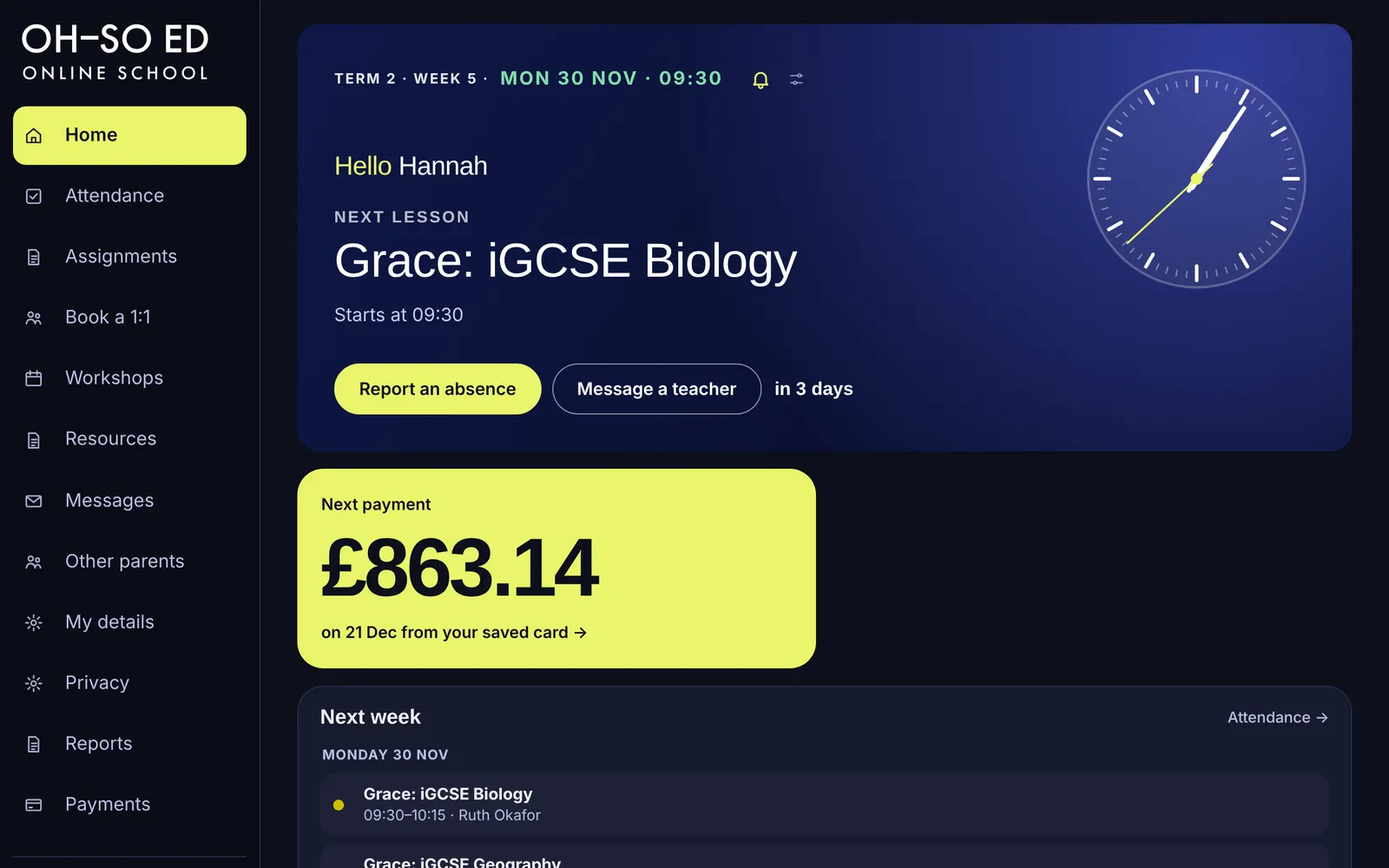
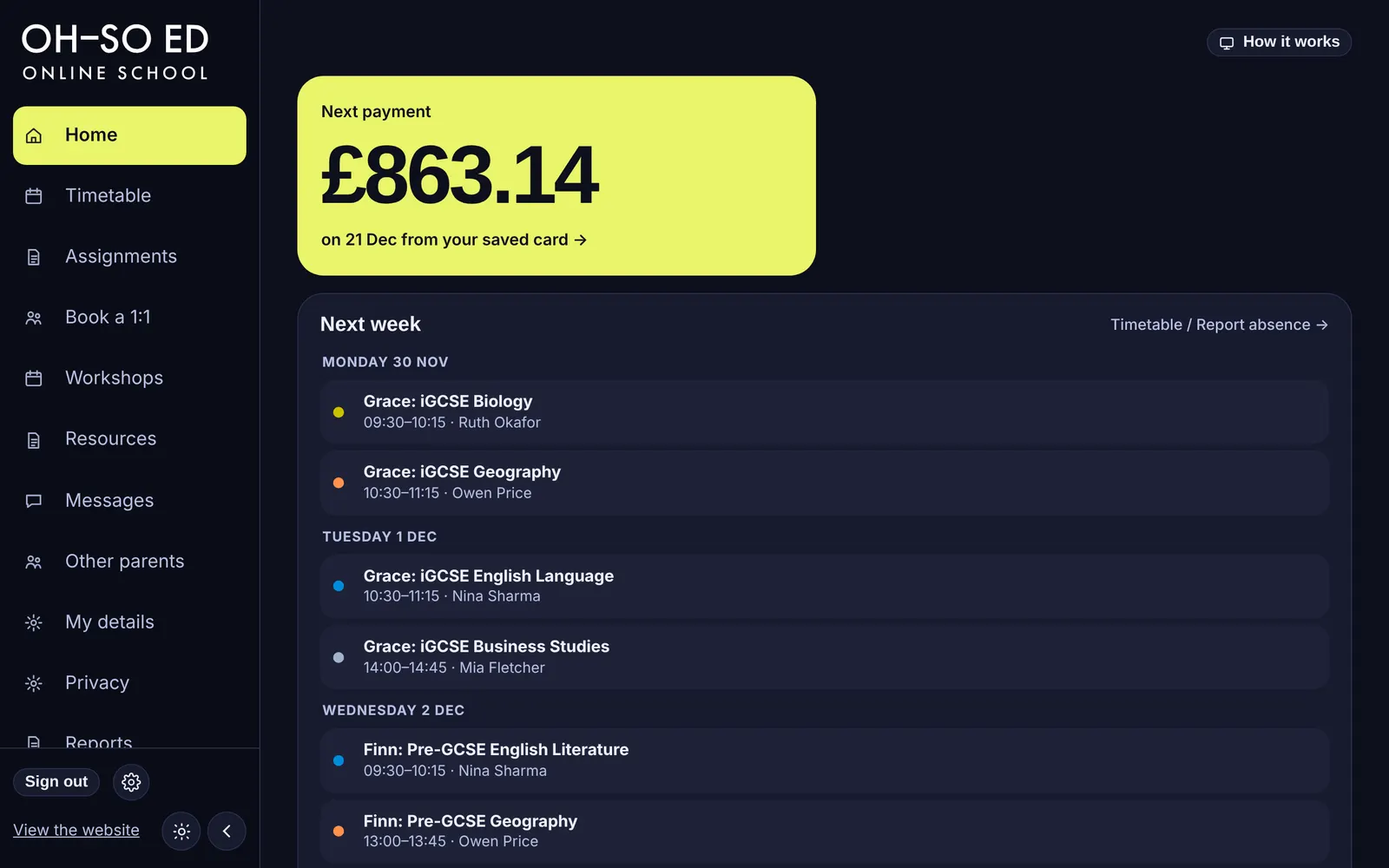
Update 526: parent Timetable (month calendar with absences); no hero on the parent home
- Parent menu: Attendance is now Timetable (/parent/attendance): one month calendar per child (option B). Taught lessons show present / late / absent / approved absence; lessons to come have a tick box; ticking brings up the bar (reason, note, Report absence) kept in view at the bottom; a reported absence shows on its lesson with Cancel; cancelled lessons are struck through; child and month switchers. On a phone it's a list of the days with lessons. parentMonth() in family.ts
- Parent home: the hero (next lesson and clock) is gone; How it works sits in the module bar; built-in layout puts the payment beside This week. Links read "Timetable / Report absence"
- /newdashboard parent page and the Home and Timetable slideshows updated

Claude-Session: https://claude.ai/code/session_019jwWYdrTturMMjiMEQw7Wv

diff --git a/src/app/(family)/parent/attendance/page.tsx b/src/app/(family)/parent/attendance/page.tsx
@@ -1,44 +1,81 @@
+import Link from "next/link";
 import { GuideSlides } from "../../../admin/GuideSlides";
 import { FAMILY_GUIDES } from "../../../admin/guides";
 import { requireParent } from "@/lib/family-auth";
-import { kids, parentAttendance, REASONS } from "@/lib/family";
+import { kids, parentMonth, REASONS, type MonthLesson } from "@/lib/family";
 import { reportAbsenceAction, cancelAbsenceAction } from "../../actions";
-import { Head, Flash, dm, dlong, MARK } from "../../fmt";
+import { Head, Flash } from "../../fmt";
 
-export default async function ParentAttendance({ searchParams }: { searchParams: Promise<{ ok?: string; err?: string; kid?: string }> }) {
+export const dynamic = "force-dynamic";
+
+// 27 Nov (Alfonso chose option B): the parent's Timetable: one module, a month calendar for one child. Lessons already
+// taught show their mark (present, late, absent, approved absence); lessons to come have a tick box, and ticking them
+// brings up the bar (reason, note, Report absence) along the bottom. A reported absence shows on its lesson, with Cancel.
+// On a phone the calendar becomes a list of the days that have lessons.
+const MONTHS = ["January", "February", "March", "April", "May", "June", "July", "August", "September", "October", "November", "December"];
+const WD = ["Mon", "Tue", "Wed", "Thu", "Fri", "Sat", "Sun"];
+const iso = (d: Date) => d.toISOString().slice(0, 10);
+const londonToday = () => new Date().toLocaleDateString("en-CA", { timeZone: "Europe/London" });
+const short = (c: string) => c.replace(/^(KS3|Pre-GCSE|iGCSE|GCSE|A[- ]?Level)\s+/i, "");
+const STATE: Record<string, [string, string, string]> = { present: ["tt-ok", "✓", "Present"], late: ["tt-late", "L", "Late"], absent: ["tt-abs", "✗", "Absent"], approved_absence: ["tt-appr", "E", "Approved absence"] };
+
+export default async function ParentTimetable({ searchParams }: { searchParams: Promise<{ ok?: string; err?: string; kid?: string; m?: string }> }) {
   const [sp, f] = await Promise.all([searchParams, requireParent()]);
-  const [ks, a] = await Promise.all([kids(f.id), parentAttendance(f.id)]);
+  const ks = await kids(f.id);
   const kid = ks.find((k) => k.id === sp.kid) ?? ks[0];
-  const up = a.upcoming.filter((l) => l.student_id === kid?.id), days = [...new Set(up.map((l) => l.date))];
+  const today = londonToday();
+  const ym = /^\d{4}-\d{2}$/.test(sp.m ?? "") ? sp.m! : today.slice(0, 7);
+  const [y, mo] = ym.split("-").map(Number);
+  const first = new Date(Date.UTC(y, mo - 1, 1)), last = new Date(Date.UTC(y, mo, 0));
+  const start = new Date(first); start.setUTCDate(1 - ((first.getUTCDay() + 6) % 7));
+  const end = new Date(last); end.setUTCDate(last.getUTCDate() + (6 - ((last.getUTCDay() + 6) % 7)));
+  const lessons = kid ? await parentMonth(f.id, kid.id, iso(start), iso(end)) : [];
+  const byDay = new Map<string, MonthLesson[]>(); for (const l of lessons) byDay.set(l.date, [...(byDay.get(l.date) ?? []), l]);
+  const days: Date[] = []; for (const d = new Date(start); d <= end; d.setUTCDate(d.getUTCDate() + 1)) days.push(new Date(d));
+  const monthHref = (d: number) => { const t = new Date(Date.UTC(y, mo - 1 + d, 1)); return `/parent/attendance?${kid ? `kid=${kid.id}&` : ""}m=${iso(t).slice(0, 7)}`; };
+  const monthName = (d: number) => MONTHS[new Date(Date.UTC(y, mo - 1 + d, 1)).getUTCMonth()];
+  const taught = lessons.filter((l) => l.mark), count = (m: string) => taught.filter((l) => l.mark === m).length;
+  const cancels: string[] = [];
+  const chip = (l: MonthLesson) => {
+    const label = <><b>{l.time}</b><span className="tt-c">{short(l.class)}{l.taster ? " (taster)" : ""}</span></>;
+    if (l.status === "cancelled") return <div key={l.id} className="tt-l tt-cx" title="This lesson was cancelled">{label}<i>Cancelled</i></div>;
+    if (l.mark) { const [c, sym, word] = STATE[l.mark] ?? ["tt-appr", "?", l.mark]; return <div key={l.id} className={`tt-l ${c}`} title={`${l.class}: ${word}${l.early ? ", left early" : ""}`}>{label}<i aria-label={word}>{sym}{l.early ? "↘" : ""}</i></div>; }
+    if (l.past) return <div key={l.id} className="tt-l tt-none" title={`${l.class}: not marked yet`}>{label}<i>–</i></div>;
+    if (l.notice) { cancels.push(l.notice); return <div key={l.id} className="tt-l tt-rep">{label}<span>Absence reported · <button type="submit" form={`cx-${l.notice}`} className="tt-link">Cancel</button></span></div>; }
+    return <label key={l.id} className="tt-l tt-fut" title={`${l.time} ${l.class}: tick if ${kid?.first ?? "they"} will miss it`}><input type="checkbox" name="lesson" value={l.id} />{label}</label>;
+  };
   return <>
-    <Head title="Attendance" sub="Your children’s attendance, and absences you’ve told us about"><GuideSlides slides={[...FAMILY_GUIDES["p-attendance"].slides]} title={FAMILY_GUIDES["p-attendance"].title} /></Head>
+    <Head title="Timetable" sub={kid ? `${kid.first}’s lessons: how each one went, and the ones coming up. Tick a lesson to tell us ${kid.first} will miss it.` : "Your children’s lessons"}>
+      <GuideSlides slides={[...FAMILY_GUIDES["p-attendance"].slides]} title={FAMILY_GUIDES["p-attendance"].title} /></Head>
     <Flash sp={sp} />
-    <div className="dgrid">{ks.map((st) => { const m = a.marks.filter((x) => x.student_id === st.id), held = m.filter((x) => x.mark !== "approved_absence").length,
-      att = m.filter((x) => x.mark === "present" || x.mark === "late").length, appr = m.filter((x) => x.mark === "approved_absence").length;
-      return <section className="card" key={st.id} style={{ margin: 0 }}>
-        <div style={{ display: "flex", gap: 10, alignItems: "center", flexWrap: "wrap" }}><h2 style={{ margin: 0 }}>{st.first}</h2>{st.att != null && <span className={`pill ${st.att < 50 ? "warn" : "good"}`}>Attendance {st.att}%</span>}</div>
-        <p className="cs" style={{ marginTop: 6 }}>{m.length ? `${att} of ${held} lessons attended this term · ${appr} approved absence${appr === 1 ? "" : "s"} · ${held - att} unexplained` : "No lessons yet this term."}</p>
-        {m.slice(0, 8).map((x, i) => <div className="li" key={i}><span className={`mark ${MARK[x.mark]?.[1]}`}>{MARK[x.mark]?.[2]}{x.early ? "↘" : ""}</span>
-          <div className="t"><b>{x.class} · {dm(x.date)} {x.time}</b><span>{MARK[x.mark]?.[0]}{x.early ? " · left early" : ""}</span></div></div>)}
-      </section>; })}</div>
-
-    {kid && <section className="card" style={{ marginTop: 16 }}><h2>Report an absence</h2><p className="cs">Tell us in advance and the lesson is recorded as an approved absence, so it doesn’t count against attendance. Teachers are told before the lesson.</p>
-      {ks.length > 1 && <div style={{ display: "flex", gap: 6, marginBottom: 10 }}>{ks.map((k) => <a key={k.id} className={`abtn sm${k.id === kid.id ? " pri" : ""}`} href={`/parent/attendance?kid=${k.id}`}>{k.first}</a>)}</div>}
-      <form action={reportAbsenceAction} style={{ display: "grid", gap: 10 }}><input type="hidden" name="student" value={kid.id} />
-        <b style={{ fontSize: 15 }}>Which lessons will {kid.first} miss? (next 4 weeks)</b>
-        <div style={{ maxHeight: 300, overflow: "auto", border: "1px solid var(--line)", borderRadius: 10, padding: "4px 10px" }}>
-          {days.length === 0 ? <p className="empty">No lessons coming up.</p> : days.map((d) => <div className="li" key={d} style={{ alignItems: "flex-start" }}><span className="mono" style={{ width: 96, flex: "none" }}>{dlong(d)}</span>
-            <div style={{ display: "grid", gap: 4 }}>{up.filter((l) => l.date === d).map((l) => <label key={l.id} style={{ display: "flex", gap: 8, alignItems: "center" }}>
-              <input type="checkbox" name="lesson" value={l.id} disabled={!!l.absent} defaultChecked={!!l.absent} /> {l.time} · {l.class}{l.absent && <span className="pill mute">Already reported</span>}</label>)}</div></div>)}</div>
-        <div className="eform"><label className="fld">Reason<select name="reason">{REASONS.map((r) => <option key={r}>{r}</option>)}</select></label>
-          <label className="fld">Anything the teacher should know? (optional)<input name="note" maxLength={500} placeholder="e.g. please share the lesson notes" style={{ width: 320 }} /></label></div>
-        <div><button className="abtn pri" type="submit">Report absence</button></div></form></section>}
-
-    <section className="card"><h2>Absences you’ve reported</h2>
-      <div className="tw" style={{ border: 0, marginBottom: 0 }}><table><thead><tr><th>Lesson</th><th>Child</th><th>Class</th><th>Reason</th><th>Status</th><th /></tr></thead><tbody>
-        {a.notices.length === 0 ? <tr><td colSpan={6} className="muted">No absences reported.</td></tr> : a.notices.map((n) => <tr key={n.id}><td><b>{dm(n.date)}</b> {n.time}</td><td>{n.student}</td><td>{n.class}</td>
-          <td>{n.reason}{n.note && <><br /><span className="muted">{n.note}</span></>}</td><td><span className={`pill ${n.upcoming ? "info" : "mute"}`}>{n.upcoming ? "Approved · coming up" : "Approved absence"}</span></td>
-          <td>{n.upcoming && <form action={cancelAbsenceAction}><input type="hidden" name="id" value={n.id} /><button className="abtn sm" type="submit">Cancel</button></form>}</td></tr>)}
-      </tbody></table></div></section>
+    {!kid ? <p className="empty">Once your children are booked on a course, their lessons show here.</p> : <section className="card tt">
+      <div className="tt-top">
+        {ks.length > 1 && <div className="segl" role="group" aria-label="Child">{ks.map((k) => <Link key={k.id} href={`/parent/attendance?kid=${k.id}&m=${ym}`} aria-current={k.id === kid.id ? "true" : undefined}>{k.first}</Link>)}</div>}
+        <div className="segl" role="group" aria-label="Month"><Link href={monthHref(-1)}>‹ {monthName(-1).slice(0, 3)}</Link><Link href={monthHref(0)} aria-current="true">{monthName(0)} {y}</Link><Link href={monthHref(1)}>{monthName(1).slice(0, 3)} ›</Link></div>
+        <span className="grow" />
+        {kid.att != null && <span className={`pill ${kid.att < 85 ? "warn" : "good"}`}>Attendance this term {kid.att}%</span>}
+      </div>
+      {taught.length > 0 && <p className="tt-sum">{monthName(0)}: <b>{count("present")}</b> present · <b>{count("late")}</b> late · <b>{count("absent")}</b> absent · <b>{count("approved_absence")}</b> approved absence{count("approved_absence") === 1 ? "" : "s"}</p>}
+      <form action={reportAbsenceAction} className="tt-form"><input type="hidden" name="student" value={kid.id} /><input type="hidden" name="kid" value={kid.id} /><input type="hidden" name="m" value={ym} />
+        <div className="tt-grid">
+          {WD.map((w) => <div key={w} className="tt-wh">{w}</div>)}
+          {days.map((d) => { const k = iso(d), ls = byDay.get(k) ?? [], other = d.getUTCMonth() !== mo - 1;
+            return <div key={k} className={`tt-day${other ? " other" : ""}${k === today ? " today" : ""}${ls.length ? " has" : ""}${k > today ? " future" : ""}`}>
+              <div className="tt-dn"><span className="tt-wd">{WD[(d.getUTCDay() + 6) % 7]} </span>{d.getUTCDate()}<span className="tt-wd"> {MONTHS[d.getUTCMonth()].slice(0, 3)}</span>{k === today ? " · Today" : ""}</div>
+              {ls.map(chip)}</div>; })}
+        </div>
+        {lessons.length === 0 && <p className="empty">No lessons for {kid.first} this month.</p>}
+        <div className="tt-bar">
+          <span className="tt-hint">Tick the lessons {kid.first} will miss, and tell us here.</span>
+          <span className="tt-n">Lessons ticked:&nbsp;<b className="tt-count" /></span>
+          <select name="reason" aria-label="Reason">{REASONS.map((r) => <option key={r}>{r}</option>)}</select>
+          <input name="note" maxLength={500} placeholder="Anything the teacher should know? (optional)" aria-label="Note for the teacher" />
+          <button className="abtn pri" type="submit">Report absence</button>
+        </div>
+      </form>
+      {cancels.map((id) => <form key={id} id={`cx-${id}`} action={cancelAbsenceAction} hidden><input type="hidden" name="id" value={id} /><input type="hidden" name="kid" value={kid.id} /><input type="hidden" name="m" value={ym} /></form>)}
+      <p className="tt-key"><span className="tt-l tt-ok"><i>✓</i> Present</span><span className="tt-l tt-late"><i>L</i> Late</span><span className="tt-l tt-abs"><i>✗</i> Absent</span><span className="tt-l tt-appr"><i>E</i> Approved absence</span>
+        <span className="muted">Attendance comes from each lesson’s Google Meet. Telling us before the lesson makes it an approved absence, which doesn’t count against attendance.</span></p>
+    </section>}
   </>;
 }

diff --git a/src/app/(family)/parent/page.tsx b/src/app/(family)/parent/page.tsx
@@ -1,8 +1,6 @@
 import { GuideSlides } from "../../admin/GuideSlides";
 import { FAMILY_GUIDES } from "../../admin/guides";
-import { NotifyBell } from "../../NotifyBell";
 import Link from "next/link";
-import { LessonClock, LessonCountdown } from "../../LessonClock";
 import { requireParent } from "@/lib/family-auth";
 import { kids, parentHome, parentAttendance, parentThreads, weekOrNext } from "@/lib/family";
 import { ThisWeek } from "../ThisWeek";
@@ -12,32 +10,23 @@ import { BentoBoard, type BoardModule } from "../../admin/BentoBoard";
 import { dm, dlong, gbp } from "../fmt";
 import { Ring } from "../../admin/DashBits";
 import { familyMsgsOn } from "@/lib/teacher-area";
-import { termWeekFor, heroWhen } from "@/lib/term-week";
 
-// The parent's home, Bento style: the family's next lesson up top (with Report an absence), the next payment in lime,
+// The parent's home, Bento style: the next payment in lime, This week,
 // a card per child with their attendance ring and classes, then work due and reports.
 export default async function ParentHome() {
   const f = await requireParent();
   const [ks, h, a, threads, teachersOn, week] = await Promise.all([kids(f.id), parentHome(f.id), parentAttendance(f.id), parentThreads(f.id).catch(() => []), familyMsgsOn(), weekOrNext({ parent: f.id })]);
-  const next = a.upcoming.find((u) => !u.absent) ?? null, who = next ? ks.find((k) => k.id === next.student_id) : null;
   const today = new Date().toLocaleDateString("en-CA", { timeZone: "Europe/London" });
   const tone = (p: number | null) => p == null ? "brand" : p < 50 ? "bad" : p < 80 ? "warn" : "good";
   const unread = threads.filter((t) => t.unread).length;
-  const tw = next ? await termWeekFor(next.date) : "";   // 27 Nov: the hero mirrors the teacher's
   // "Coming up" lists what comes after this week (This week shows the rest)
   const sunday = (() => { const d = new Date(today + "T12:00:00Z"); d.setUTCDate(d.getUTCDate() + ((7 - d.getUTCDay()) % 7) + (week.next ? 7 : 0)); return d.toISOString().slice(0, 10); })();
   const later = a.upcoming.filter((u) => u.date > sunday);
+  // 27 Nov (Alfonso): no hero (next lesson and clock) for parents: This week and the Timetable cover it
   const modules: BoardModule[] = [
-    { id: "hero", title: "Next lesson", node: <section className={`dx-hero c8${next ? " has-clock" : ""}`}><div className="fx-main">
-        <p className="fx-live">{next?.date === today && <i />}{tw && <span className="fx-tw">{tw} ·</span>}{next ? <span className="fx-daytime">{heroWhen(next.date, next.time, today)}</span> : "Your account"} <NotifyBell settingsHref="/parent/notifications" /><GuideSlides variant="info" label="How it works" slides={[...FAMILY_GUIDES["p-home"].slides]} title={FAMILY_GUIDES["p-home"].title} /></p>
-        <h1 className="fx-hero-t"><span className="fx-hi"><span className="fx-hello">Hello</span> {f.first}</span>{next && <><span className="fx-nextk">Next lesson</span>{who?.first ? `${who.first}: ` : ""}{next.class}</>}</h1>
-        <p className="fx-hero-s">{next ? `Starts at ${next.time.slice(0, 5)}` : ks.length ? "No lessons in the next four weeks." : "No children on your account yet."}</p>
-        <div className="fx-btns"><Link className="go" href="/parent/attendance">Report an absence</Link><Link href="/parent/messages?new=1">{teachersOn ? "Message a teacher" : "Message the office"}</Link>
-          {next && <LessonCountdown date={next.date} time={next.time} />}</div>
-      </div>{next && <div className="fx-side"><LessonClock date={next.date} time={next.time} /></div>}</section> },
     { id: "payment", title: "Next payment", node: <Link href="/parent/payments" className="dx-pop c4"><span>Next payment</span>
         <b className="fx-big">{h.next ? gbp(h.next.amount) : "£0"}</b><span>{h.next ? `on ${dm(h.next.due)} from your saved card →` : "Nothing due →"}</span></Link> },
-    { id: "thisweek", title: "This week", size: "l", node: <ThisWeek rows={week.rows} next={week.next} parent more={{ href: "/parent/attendance", label: "Attendance" }} /> },
+    { id: "thisweek", title: "This week", size: "l", node: <ThisWeek rows={week.rows} next={week.next} parent more={{ href: "/parent/attendance", label: "Timetable / Report absence" }} /> },
     { id: "children", title: "Your children", size: "full", node: <div className="fx-kids">{ks.map((st) => <section className="dx-card c6" key={st.id}>
         <div className="fx-kid"><Ring pct={st.att} tone={tone(st.att)} /><div><h2>{st.first}</h2><span className="muted" style={{ fontSize: 14.5 }}>{st.level || "No level yet"} · {st.att == null ? "attendance shows after the first lesson" : `${st.att}% attendance this term`}</span></div></div>
         {st.classes.length === 0 ? <p className="empty">No courses this year.</p> : st.classes.map((c) => <div className="fx-row" key={c.group_id}>
@@ -51,7 +40,7 @@ export default async function ParentHome() {
     { id: "reports", title: "Reports", node: <section className="dx-card c6"><header><h2>Reports</h2><Link className="dx-more" href="/parent/reports">All reports →</Link></header>
         {h.reports.length ? h.reports.map((r) => <div className="fx-row" key={r.id}><div className="t"><b>{r.name}</b><span>{r.published ? dm(r.published) : ""}</span></div><Link className="abtn sm" href="/parent/reports">View</Link></div>) : <p className="empty">No reports yet.</p>}
         {h.upcoming && <p className="note" style={{ marginTop: 8 }}>The {h.upcoming.name} will be here on {dm(h.upcoming.publish_on)}.</p>}</section> },
-    { id: "coming", title: "Coming up", size: "l", node: <section className="dx-card c6"><header><h2>Coming up</h2><Link className="dx-more" href="/parent/attendance">Attendance →</Link></header>
+    { id: "coming", title: "Coming up", size: "l", node: <section className="dx-card c6"><header><h2>Coming up</h2><Link className="dx-more" href="/parent/attendance">Timetable / Report absence →</Link></header>
         {later.slice(0, 5).map((u) => <div className="fx-row" key={u.id + u.student_id}><span className="fx-when">{dlong(u.date)}</span><div className="t"><b>{ks.find((k) => k.id === u.student_id)?.first}: {u.class}</b><span>{u.time}</span></div>{u.absent && <span className="pill mute">Away</span>}</div>)}</section> },
     { id: "messages", title: "Messages", size: "l", node: <section className="dx-card"><header><h2>Messages</h2>{unread > 0 && <span className="dx-count">{unread}</span>}<Link className="dx-more" href="/parent/messages">All messages →</Link></header>
       {threads.length === 0 ? <p className="empty">No messages yet. {teachersOn ? "You can message your children’s teachers or the office." : "You can message the office."}</p> : threads.slice(0, 4).map((t) => <div className="fx-row" key={t.id}><div className="t"><b>{t.subject}</b><span>{t.teacher} · about {t.student} · {dm(t.last_at)}</span></div>
@@ -61,11 +50,12 @@ export default async function ParentHome() {
   const b = await boardLayout("parent-home", null, BOARD_MODULES["parent-home"], BUILT_IN);
   return <div className="fx fx-board">
     <BentoBoard page="parent-home" modules={modules.filter((m) => m.id !== "coming" || later.length > 0)} layout={b.layout} defaults={BUILT_IN}
-      saved={b.std} scope="standard" locked={!f.viewer || b.mirrored} audience="parents" />
+      saved={b.std} scope="standard" locked={!f.viewer || b.mirrored} audience="parents"
+      tools={<GuideSlides label="How it works" slides={[...FAMILY_GUIDES["p-home"].slides]} title={FAMILY_GUIDES["p-home"].title} />} />
   </div>;
 }
 
-const BUILT_IN: { id: string; size: "s" | "q" | "m" | "l" | "xl" | "full" }[] = [
-  { id: "hero", size: "xl" }, { id: "payment", size: "m" }, { id: "thisweek", size: "l" }, { id: "messages", size: "l" }, { id: "children", size: "full" },
-  { id: "work", size: "l" }, { id: "reports", size: "l" }, { id: "coming", size: "l" },
+const BUILT_IN: { id: string; size: "s" | "q" | "m" | "l" | "xl" | "full" }[] = [   // 27 Nov: without the hero, the payment sits beside This week
+  { id: "payment", size: "m" }, { id: "thisweek", size: "xl" }, { id: "messages", size: "l" }, { id: "work", size: "l" },
+  { id: "reports", size: "l" }, { id: "coming", size: "l" }, { id: "children", size: "full" },
 ];

diff --git a/src/app/admin/admin.css b/src/app/admin/admin.css
@@ -1907,3 +1907,56 @@ html:has(.adm[data-theme=dark]),html:has(.adm[data-theme=dark]) body{background:
 @media (min-width:821px){
   .adm .side .side-foot,.adm .side .side-foot.inline{position:sticky;bottom:-18px;margin:auto -12px -18px;padding:14px 12px 16px;background:var(--rail,var(--brand));border-top:1px solid var(--line);z-index:2}
 }
+/* 27 Nov: parent Lessons: Report an absence on the left, each child's attendance on the right */
+.adm .pl-grid{display:grid;grid-template-columns:minmax(0,1fr) minmax(0,1fr);gap:16px;align-items:start;margin-bottom:16px}
+.adm .pl-att{display:grid;gap:16px}
+@media (max-width:1050px){.adm .pl-grid{grid-template-columns:1fr}}
+/* 27 Nov (Alfonso chose option B): the parent's Timetable: a month calendar with each lesson's mark, tick boxes to report an absence */
+.adm .tt-top{display:flex;gap:10px;align-items:center;flex-wrap:wrap;margin-bottom:12px}
+.adm .tt-sum{margin:0 0 12px;color:var(--muted);font-size:14.5px}.adm .tt-sum b{color:var(--ink)}
+.adm .tt-form{counter-reset:tt}
+.adm .tt-grid{display:grid;grid-template-columns:repeat(7,minmax(0,1fr));gap:6px}
+.adm .tt-wh{font:600 12px/1 "Space Grotesk",sans-serif;letter-spacing:.08em;text-transform:uppercase;color:var(--muted);padding:4px 6px}
+.adm .tt-day{min-height:96px;border:1px solid var(--line);border-radius:12px;padding:6px 7px;background:var(--soft);display:flex;flex-direction:column;gap:5px;min-width:0}
+.adm .tt-day.future{background:var(--panel)}
+.adm .tt-day.other{opacity:.45}
+.adm .tt-day.today{border-color:var(--brand-accent,#e3cd4b);box-shadow:inset 0 0 0 1px var(--brand-accent,#e3cd4b)}
+.adm .tt-dn{font-weight:700;font-size:13px}.adm .tt-wd{display:none}
+.adm .tt-l{display:flex;align-items:center;gap:6px;border-radius:8px;padding:3px 7px;font-size:12.5px;line-height:1.3;min-width:0}
+.adm .tt-l b{font-weight:700;white-space:nowrap}
+.adm .tt-l i{font-style:normal;font-weight:700;margin-left:auto;flex:none}
+.adm .tt-ok{background:color-mix(in srgb,#2f9e63 18%,transparent);color:#1d7a49}
+.adm .tt-late{background:color-mix(in srgb,#e0a023 20%,transparent);color:#8a5a00}
+.adm .tt-abs{background:color-mix(in srgb,#d64545 16%,transparent);color:#b42f2f}
+.adm .tt-appr,.adm .tt-rep{background:var(--hover);color:var(--muted)}
+.adm .tt-none{background:transparent;border:1px dashed var(--line);color:var(--muted)}
+.adm .tt-cx{background:transparent;color:var(--muted);text-decoration:line-through}.adm .tt-cx i{text-decoration:none;font-weight:500}
+.adm .tt-rep{flex-wrap:wrap}.adm .tt-rep span{font-size:11.5px}.adm .tt-link{background:none;border:0;padding:0;color:inherit;text-decoration:underline;cursor:pointer;font:inherit}
+.adm .tt-fut{border:1px solid var(--line);background:var(--panel);cursor:pointer}
+.adm .tt-fut input{width:15px;height:15px;margin:0;flex:none;accent-color:var(--brand-accent,#e3cd4b)}
+.adm .tt-fut:has(input:checked){border-color:var(--brand-accent,#e3cd4b);box-shadow:inset 0 0 0 1px var(--brand-accent,#e3cd4b)}
+.adm .tt-fut input:checked{counter-increment:tt}
+.adm .tt-count::before{content:counter(tt)}
+@media (prefers-color-scheme:dark){.adm:not([data-theme=light]) .tt-ok{color:#7ee0a2}.adm:not([data-theme=light]) .tt-late{color:#f3c766}.adm:not([data-theme=light]) .tt-abs{color:#ff9a9a}}
+.adm[data-theme=dark] .tt-ok{color:#7ee0a2}.adm[data-theme=dark] .tt-late{color:#f3c766}.adm[data-theme=dark] .tt-abs{color:#ff9a9a}
+/* the bar: a hint until something is ticked, then the reason, note and button, kept in view along the bottom */
+.adm .tt-bar{margin-top:14px;display:flex;gap:10px;align-items:center;flex-wrap:wrap;background:var(--hover);border-radius:16px;padding:10px 14px}
+.adm .tt-bar .tt-n,.adm .tt-bar select,.adm .tt-bar input,.adm .tt-bar button{display:none}
+.adm .tt-bar input{flex:1;min-width:200px}
+.adm .tt-hint{color:var(--muted);font-size:14.5px}
+.adm .tt-form:has(.tt-fut input:checked) .tt-bar{position:sticky;bottom:12px;z-index:5;box-shadow:0 8px 28px rgba(5,15,45,.25);border:1px solid var(--brand-accent,#e3cd4b)}
+.adm .tt-form:has(.tt-fut input:checked) .tt-bar .tt-n,.adm .tt-form:has(.tt-fut input:checked) .tt-bar select,.adm .tt-form:has(.tt-fut input:checked) .tt-bar button{display:inline-flex}
+.adm .tt-form:has(.tt-fut input:checked) .tt-bar input{display:block}
+.adm .tt-form:has(.tt-fut input:checked) .tt-hint{display:none}
+.adm .main:has(> .beta-strip) .tt-form:has(.tt-fut input:checked) .tt-bar{bottom:56px}
+.adm .tt-key{display:flex;gap:8px 12px;flex-wrap:wrap;align-items:center;margin:14px 0 0;font-size:13px}.adm .tt-key .tt-l{padding:2px 8px}.adm .tt-key .tt-l i{margin-left:0}
+/* phones and narrow windows: a list of the days that have lessons */
+@media (max-width:820px){
+  .adm .tt-grid{grid-template-columns:1fr}.adm .tt-wh{display:none}.adm .tt-day{min-height:0}.adm .tt-day:not(.has){display:none}
+  .adm .tt-wd{display:inline}.adm .tt-l{font-size:14px;padding:6px 9px}
+}
+.adm .tt-l{overflow:hidden}.adm .tt-c{flex:1 1 auto;min-width:0;overflow:hidden;text-overflow:ellipsis;white-space:nowrap}
+.adm .tt-top .segl a{white-space:nowrap}
+.adm .tt-sum b{display:inline}
+.adm .tt-l b{flex:none}.adm .tt-fut{padding:3px 6px;gap:5px}
+.adm .tt-bar select{width:auto;max-width:240px}

diff --git a/src/app/admin/guides.ts b/src/app/admin/guides.ts
@@ -37,8 +37,8 @@ export const TEACHER_GUIDES = {
 // 27 Nov (Alfonso: "have you created tip slides for parents and students?"): the families' pages. Filmed in the demo
 // school with scratch/qa/film-family.js; pictures in public/guides/<p-…|s-…>/.
 export const FAMILY_GUIDES = {
-  "p-home": { title: "Home: how it works", slides: deck("p-home", ["Home: Everything about your children’s week, on one page","The next lesson is at the top, with a countdown.","Your next payment: how much and when. Press it to see all your payments.","This week lists each child’s lessons, with the teacher and time.","The menu takes you to attendance, assignments, payments, messages and more.","Look for How it works at the top of other pages too."]) },
-  "p-attendance": { title: "Attendance: how it works", slides: deck("p-attendance", ["Attendance: How lessons are going, and telling us about absences","Each child’s attendance this term, lesson by lesson.","Missing a lesson? Report an absence: tick the lessons and give a reason.","Attendance is taken from Google Meet, so your child should join with their school account."]) },
+  "p-home": { title: "Home: how it works", slides: deck("p-home", ["Home: Everything about your children’s week, on one page","Your next payment: how much and when. Press it to see all your payments.","This week lists each child’s lessons, with the teacher and time. Timetable / Report absence opens the whole month.","The menu takes you to the timetable, assignments, payments, messages and more.","Look for How it works at the top of other pages too."]) },
+  "p-attendance": { title: "Timetable: how it works", slides: deck("p-attendance", ["Timetable: Each child’s lessons for the month, and telling us about absences","Each child’s lessons for the month. Lessons that have happened show how they went: present, late, absent, or an absence you told us about.","Switch between your children and months here.","Missing a lesson? Tick it, choose a reason and press Report absence. It’s recorded as an approved absence, and the teacher is told before the lesson.","Attendance is taken from Google Meet, so your child should join with their school account."]) },
   "p-assignments": { title: "Assignments: how it works", slides: deck("p-assignments", ["Assignments: The work set in your children’s classes","Pick a child, then Due, Overdue or Submitted.","Each piece shows the class, whether it was handed in, and the mark once it’s returned.","Open one to read the teacher’s post: the instructions and any files.","Your child hands work in through Google Classroom with their school account."]) },
   "p-payments": { title: "Payments: how it works", slides: deck("p-payments", ["Payments: What you’ve paid, and what’s coming","If a payment didn’t go through, it shows in Overdue, with what it was for.","Paid this year and still to pay, at a glance.","Each child’s courses, term by term. The coloured tabs show the date: paid, due or late.","Payment history lists every payment with its date, and a Receipt for each.","Need to change a course? Swap or cancel a course is at the bottom of the page.","Payments are taken automatically from your saved card or by Direct Debit. We email you a few days before each one."]) },
   "p-messages": { title: "Messages: how it works", slides: deck("p-messages", ["Messages: Talk to your children’s teachers and the office","Press New message to start a conversation. Your conversations are listed on the left: All, Unread, Office and Teachers.","Choose a class to write to its teacher, or write to the office.","Our messages come to your email too. Just reply to that email, from any email address, and your answer goes into the conversation here.","You’re emailed when someone replies, and you can answer here or by email."]) },

diff --git a/src/app/(site)/newdashboard/content.ts b/src/app/(site)/newdashboard/content.ts
@@ -72,19 +72,19 @@ export const PAGES: Record<Role, Page> = {
   parent: {
     role: "parent", label: "Parents",
     title: "Your new parent dashboard",
-    lead: "From January, your family’s OH-SO ED dashboard shows each child’s lessons, attendance, work and reports, and lets you message us, book 1:1s and see your payments, all in one place.",
+    lead: "From January, your family’s OH-SO ED dashboard shows each child’s timetable, attendance, work and reports, and lets you message us, report an absence, book 1:1s and see your payments, all in one place.",
     highlights: [
       { t: "Each child at a glance", d: "Next lessons, attendance and their classes for every child, on one page." },
       { t: "Their work, as it happens", d: "Work set, handed in and marked in Google Classroom, updated through the day." },
       { t: "Payments made clear", d: "What’s paid, what’s due and when, course by course and term by term." },
     ],
     sections: [
-      { id: "home", title: "Home", shot: "home", alt: "The parent home page: the next lesson with a countdown, the next payment, and each child’s classes and attendance",
-        text: "Opens on your children’s next lesson, with a countdown, and buttons to report an absence or send us a message.",
+      { id: "home", title: "Home", shot: "home", alt: "The parent home page: the next payment, this week’s lessons, messages, and each child’s classes and attendance",
+        text: "Your family’s week at a glance: the next payment, every lesson this week, messages, work due and reports.",
         points: ["This week: every lesson for each child, day by day (and next week’s once this week is done)", "Your next payment and when it’s taken", "Each child’s classes, teachers and attendance this term"] },
-      { id: "attendance", title: "Attendance", shot: "attendance", alt: "Attendance: each lesson for each child marked present, late, left early or absent",
-        text: "Every lesson for each child: present, late, left early or absent, taken from the lesson’s Google Meet.",
-        points: ["Report an absence in advance; the teacher sees it, and it doesn’t count against attendance", "Approved absences are shown separately", "We can also email you each week with how each child’s lessons went"] },
+      { id: "attendance", title: "Timetable", shot: "attendance", alt: "Timetable: a month calendar of each child’s lessons, marked present, late or absent, with tick boxes on the lessons to come",
+        text: "A calendar of each child’s lessons for the month. Lessons that have happened show how they went (present, late, left early or absent, taken from the lesson’s Google Meet); lessons to come have a tick box.",
+        points: ["Tick the lessons your child will miss, choose a reason and press Report absence; the teacher sees it, and it doesn’t count against attendance", "Cancel a reported absence on the lesson itself", "Switch between children and months"] },
       { id: "assignments", title: "Assignments", shot: "assignments", alt: "Assignments: work set in each child’s classes, with due, overdue and submitted work and marks",
         text: "The work set in your children’s classes in Google Classroom: what’s due, what’s overdue, and what’s been handed in and marked.",
         points: ["Switch between children", "Open a piece of work to see the teacher’s instructions and what’s attached, without needing your child’s Google account", "Marks show as soon as the teacher returns the work in Classroom; work sent back to redo is marked as such", "We can email you when work is due and if it’s overdue"] },

diff --git a/src/lib/family.ts b/src/lib/family.ts
@@ -65,6 +65,29 @@ export async function parentAttendance(parentId: string) {
       where s.parent_id = $1 and n.cancelled_at is null order by e.lesson_date desc limit 50`, [parentId]),
   }));
 }
+/** 27 Nov (Alfonso: the parent's Timetable, option B): one child's lessons for the weeks shown in a month calendar
+ *  (Monday before the 1st to the Sunday after the last day): each with its mark once taught, a reported absence, or
+ *  cancelled; booked tasters too. `from`/`to` are dates (YYYY-MM-DD). */
+export type MonthLesson = { id: string; date: string; time: string; class: string; subject: string; status: string; past: boolean; mark: string | null; early: boolean; notice: string | null; taster: boolean };
+export async function parentMonth(parentId: string, studentId: string, from: string, to: string): Promise<MonthLesson[]> {
+  return withSchool((q) => q<MonthLesson>(`
+    with mine as (select s.id from students s where s.id = $2 and s.parent_id = $1),
+    ev as (
+      select e.id, e.lesson_date, e.status::text as status, e.slot_id, e.group_id, false as taster from lesson_events e
+        where e.lesson_date between $3::date and $4::date
+          and exists (select 1 from enrolments x join mine on mine.id = x.student_id where x.group_id = e.group_id and not x.is_taster
+            and (x.status in ('pending','active') or exists (select 1 from attendance_marks m where m.lesson_event_id = e.id and m.student_id = mine.id)))
+      union
+      select e.id, e.lesson_date, e.status::text, e.slot_id, e.group_id, true from taster_bookings tb join taster_requests r on r.id = tb.request_id join mine on mine.id = r.student_id
+        join lesson_events e on e.id = tb.lesson_event_id where tb.status <> 'cancelled' and e.lesson_date between $3::date and $4::date)
+    select ev.id, ev.lesson_date::text as date, to_char(sl.starts_at,'HH24:MI') as time, l.name || ' ' || coalesce(sj.short_name, sj.name) as class, coalesce(sj.short_name, sj.name) as subject,
+      ev.status, (ev.lesson_date + sl.ends_at) at time zone 'Europe/London' <= now() as past,
+      (select m.mark::text from attendance_marks m where m.lesson_event_id = ev.id and m.student_id = $2) as mark,
+      coalesce((select m.left_early from attendance_marks m where m.lesson_event_id = ev.id and m.student_id = $2), false) as early,
+      (select n.id::text from absence_notices n where n.lesson_event_id = ev.id and n.student_id = $2 and n.cancelled_at is null) as notice, ev.taster
+    from ev join lesson_slots sl on sl.id = ev.slot_id join course_groups g on g.id = ev.group_id join levels l on l.id = g.level_id join subjects sj on sj.id = g.subject_id
+    order by ev.lesson_date, sl.starts_at`, [parentId, studentId, from, to])).catch(() => []);
+}
 export async function reportAbsences(parentId: string, studentId: string, lessons: string[], reason: string, note: string | null): Promise<string | null> {
   if (!REASONS.includes(reason)) return "Choose a reason.";
   if (!lessons.length) return "Choose the lessons your child will miss.";

diff --git a/src/app/(family)/actions.ts b/src/app/(family)/actions.ts
@@ -46,15 +46,19 @@ export async function familySignOutAction(): Promise<void> {
 }
 
 // ---------- parent ----------
+/** 27 Nov: back to the same child and month on the Timetable */
+const ttBack = (f: FormData) => { const kid = str(f, "kid", 40), m = str(f, "m", 7);
+  const qs = [/^[0-9a-f-]{36}$/.test(kid) ? `kid=${kid}` : "", /^\d{4}-\d{2}$/.test(m) ? `m=${m}` : ""].filter(Boolean).join("&");
+  return `/parent/attendance${qs ? `?${qs}` : ""}`; };
 export async function reportAbsenceAction(f: FormData): Promise<void> {
   const p = await parent("/parent/attendance");
   const err = await F.reportAbsences(p.id, str(f, "student", 40), f.getAll("lesson").map(String).filter((x) => /^[0-9a-f-]{36}$/.test(x)), str(f, "reason", 60), str(f, "note", 500) || null);
-  go("/parent/attendance", "Absence reported. The teacher can see it, and it doesn’t count against attendance.", err);
+  go(ttBack(f), "Absence reported. The teacher can see it, and it doesn’t count against attendance.", err);
 }
 export async function cancelAbsenceAction(f: FormData): Promise<void> {
   const p = await parent("/parent/attendance");
   await F.cancelAbsence(p.id, str(f, "id", 40));
-  go("/parent/attendance", "Absence cancelled.");
+  go(ttBack(f), "Absence cancelled.");
 }
 export async function bookWorkshopAction(f: FormData): Promise<void> {
   const p = await parent("/parent/workshops");

diff --git a/src/lib/menus.ts b/src/lib/menus.ts
@@ -48,7 +48,7 @@ export const CATALOGUE: Record<MenuArea, MenuItem[]> = {
     it("Reward points", "/admin/points", "star"), it("Reports", "/admin/teacher/reports", "rep"), it("My timetable", "/admin/teacher/timetable", "cal"), it("Calendar sync", "/admin/teacher/calendar", "cal"), it("Google Drive", "/admin/teacher/drive", "set"), it("Notifications", "/admin/teacher/notifications", "set"), it("My pay", "/admin/teacher/pay", "gbp"),
   ],
   parent: [
-    it("Home", "/parent", "home"), it("Attendance", "/parent/attendance", "att"), it("Assignments", "/parent/assignments", "rep"), it("Book a 1:1", "/parent/book", "fam"),
+    it("Home", "/parent", "home"), it("Timetable", "/parent/attendance", "cal"), it("Assignments", "/parent/assignments", "rep"), it("Book a 1:1", "/parent/book", "fam"),
     it("Workshops", "/parent/workshops", "cal"), it("Resources", "/parent/resources", "rep"), it("Messages", "/parent/messages", "chat"), it("Other parents", "/parent/connect", "fam"), it("My details", "/parent/details", "set"),
     it("Privacy", "/parent/privacy", "set"), it("Reports", "/parent/reports", "rep"), it("Payments", "/parent/payments", "pay"), it("Calendar sync", "/parent/calendar", "cal"), it("Notifications", "/parent/notifications", "set"),
   ],

diff --git a/src/app/admin/(panel)/styles/StyleBuilder.tsx b/src/app/admin/(panel)/styles/StyleBuilder.tsx
@@ -11,7 +11,7 @@ const DASH_PAGES: [string, string][] = [["Admin dashboard", "/admin"], ["Familie
 // 26 Nov: each dashboard has its own preview pages
 const WHO_PAGES: Record<string, [string, string][]> = {
   teacher: [["My day", "/admin/teacher"], ["My classes", "/admin/teacher/classes"], ["Marking", "/admin/teacher/marking"], ["Messages", "/admin/teacher/messages"], ["Reports", "/admin/teacher/reports"], ["My timetable", "/admin/teacher/timetable"]],
-  parent: [["Home", "/parent"], ["Messages", "/parent/messages"], ["Reports", "/parent/reports"], ["Payments", "/parent/payments"], ["Attendance", "/parent/attendance"], ["Workshops", "/parent/workshops"]],
+  parent: [["Home", "/parent"], ["Messages", "/parent/messages"], ["Reports", "/parent/reports"], ["Payments", "/parent/payments"], ["Timetable", "/parent/attendance"], ["Workshops", "/parent/workshops"]],
   student: [["Home", "/student"], ["Messages", "/student/messages"], ["Chat", "/student/chat"], ["Rewards", "/student/rewards"], ["Resources", "/student/resources"]],
 };
 const HEAD_IDS = /^(hero_h1|page_h1|sec_h2|card_h3|d_h1|d_h2|d_tile)$/;

diff --git a/src/lib/dash-modules.ts b/src/lib/dash-modules.ts
@@ -1,7 +1,7 @@
 // The modules each customisable dashboard can show (shared by the pages and the save action).
 export const BOARD_MODULES: Record<string, string[]> = {
   "teacher-home": ["hero", "reports-pop", "k-attendance", "k-reports", "k-ones", "k-pay", "week", "reports", "messages", "email", "chats", "rewards", "stream", "behind", "marking"],
-  "parent-home": ["hero", "payment", "thisweek", "children", "work", "reports", "coming", "messages"],
+  "parent-home": ["payment", "thisweek", "children", "work", "reports", "coming", "messages"],
   "student-home": ["hero", "points", "thisweek", "classes", "chat"],
   // the Solo plan: admin and teacher in one (arranged in OH-SO ED under Settings → Solo dashboard)
   "solo-home": ["hero", "overview", "k-students", "k-places", "k-attendance", "k-collected", "k-next", "k-failed", "k-ones", "today", "week", "attention", "messages", "email", "stream",
